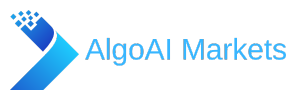
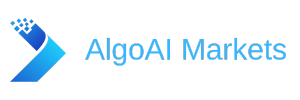
Added images

Changed region(s): [[0.03, 0.09, 0.27, 0.9]]

diff --git a/README.md b/README.md
@@ -46,6 +46,9 @@ Make sure you have Python 3.10 or later installed on your system. The app relies
     ```
     streamlit run app.py
     ```
+   
+![white](images/white.png)
+![dark](images/dark.png)
 
 ## Code Explanation
 
